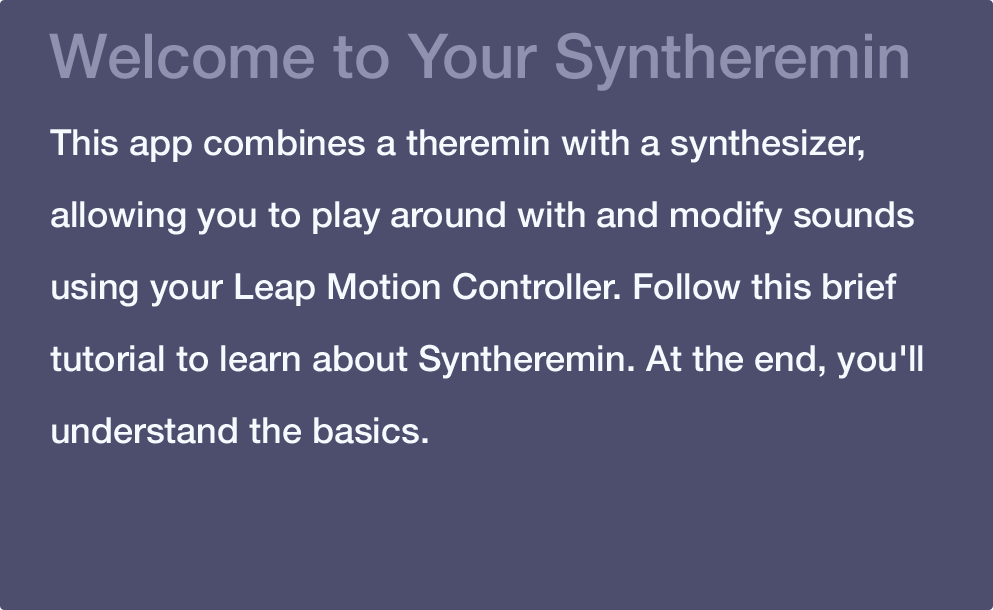
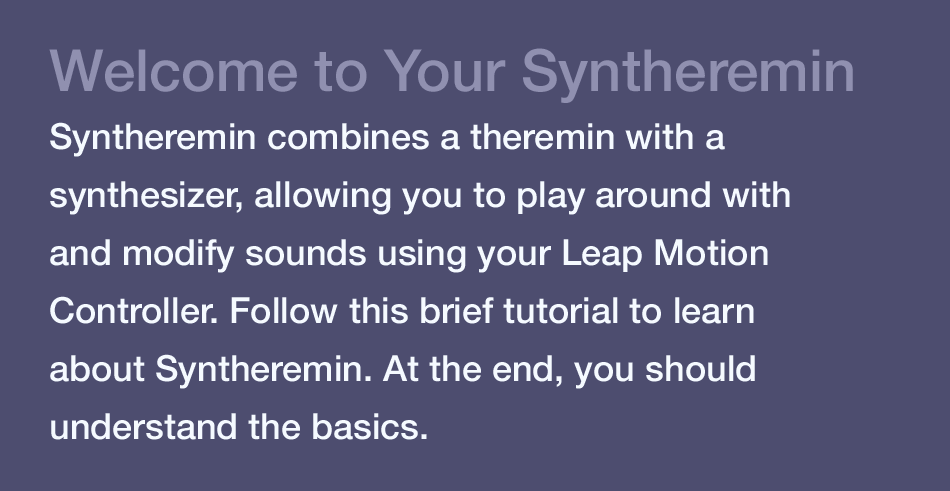
integrate new assets from joey (some half-res)

Changed region(s): [[0.0305, 0.0611, 0.9463, 0.7943], [0.0305, 0.8248, 0.4579, 0.9165]]

diff --git a/leapsynth/TutorialBox.m b/leapsynth/TutorialBox.m
@@ -110,21 +110,28 @@
     NSRect superBounds = [content frame];
     switch (++_tutorialStep) {
         case 1: //welcome
-            [self setFrameSize:NSMakeSize(496,305)];
+            [self setFrameSize:NSMakeSize(475,245)];
             [self setFrameOrigin:NSMakePoint(superBounds.size.width/2 - [self bounds].size.width/2,
                                              superBounds.size.height/2 - [self bounds].size.height/2)];
             
-            [_backgroundImage setFrame:NSMakeRect(0,0,496,305)];
+            [_backgroundImage setFrame:NSMakeRect(0,0,475,245)];
             [_backgroundImage setImage:[NSImage imageNamed:@"CARD1"]];
             break;
             
         case 2: //to begin, place hands above
+            [self setFrameSize:NSMakeSize(496,305)];
+            [self setFrameOrigin:NSMakePoint(superBounds.size.width/2 - [self bounds].size.width/2,
+                                             superBounds.size.height/2 - [self bounds].size.height/2)];
             [_backgroundImage setFrame:NSMakeRect(0,0,496,305)];
             [_backgroundImage setImage:[NSImage imageNamed:@"CARD2"]];
             break;
             
         case 3: // how to play
-            [_backgroundImage setFrame:NSMakeRect(0,0,496,305)];
+            [self setFrameSize:NSMakeSize(475,292)];
+            [self setFrameOrigin:NSMakePoint(superBounds.size.width/2 - [self bounds].size.width/2,
+                                             superBounds.size.height/2 - [self bounds].size.height/2)];
+
+            [_backgroundImage setFrame:NSMakeRect(0,0,475,292)];
             [_backgroundImage setImage:[NSImage imageNamed:@"CARD3"]];
             break;
             
@@ -135,11 +142,11 @@
             break;
 
         case 5: //patches
-            [self setFrameSize:NSMakeSize(496,305)];
+            [self setFrameSize:NSMakeSize(475,219)];
             [self setFrameOrigin:NSMakePoint(superBounds.size.width/2 - [self bounds].size.width/2,
                                              superBounds.size.height/2 - [self bounds].size.height/2)];
 
-            [_backgroundImage setFrame:NSMakeRect(0,0,496,305)];
+            [_backgroundImage setFrame:NSMakeRect(0,0,475,219)];
             [_backgroundImage setImage:[NSImage imageNamed:@"CARD4"]];
             
             if (_delegate && [_delegate respondsToSelector:@selector(switchToSynth:)]) {
@@ -148,26 +155,26 @@
             break;
             
         case 6: //lfo
-            [self setFrame:NSMakeRect(60,550,355,130)];
-            [_backgroundImage setFrame:NSMakeRect(0,0,355,130)];
+            [self setFrame:NSMakeRect(60,550,425,169)];
+            [_backgroundImage setFrame:NSMakeRect(0,0,425,169)];
             [_backgroundImage setImage:[NSImage imageNamed:@"CARD5"]];
             break;
             
         case 7: //osc
-            [self setFrame:NSMakeRect(70,435,355,120)];
-            [_backgroundImage setFrame:NSMakeRect(0,0,355,120)];
+            [self setFrame:NSMakeRect(75,440,425,138)];
+            [_backgroundImage setFrame:NSMakeRect(0,0,425,138)];
             [_backgroundImage setImage:[NSImage imageNamed:@"CARD6"]];
             break;
             
         case 8: // noise
-            [self setFrame:NSMakeRect(550,540,355,120)];
-            [_backgroundImage setFrame:NSMakeRect(0,0,355,120)];
+            [self setFrame:NSMakeRect(250,550,425,143)];
+            [_backgroundImage setFrame:NSMakeRect(0,0,425,143)];
             [_backgroundImage setImage:[NSImage imageNamed:@"CARD7"]];
             break;
             
         case 9: // adsr
-            [self setFrame:NSMakeRect(550,320,355,190)];
-            [_backgroundImage setFrame:NSMakeRect(0,0,355,190)];
+            [self setFrame:NSMakeRect(250,330,425,170)];
+            [_backgroundImage setFrame:NSMakeRect(0,0,425,170)];
             [_backgroundImage setImage:[NSImage imageNamed:@"CARD8"]];
             break;
 
@@ -176,17 +183,17 @@
                 [_delegate switchToTheremin:self];
             }
 
-            [self setFrame:NSMakeRect(120,60,355,110)];
-            [_backgroundImage setFrame:NSMakeRect(0,0,355,110)];
+            [self setFrame:NSMakeRect(120,60,425,120)];
+            [_backgroundImage setFrame:NSMakeRect(0,0,425,120)];
             [_backgroundImage setImage:[NSImage imageNamed:@"CARD9"]];
             break;
             
         case 11:
-            [self setFrameSize:NSMakeSize(355,112)];
+            [self setFrameSize:NSMakeSize(475,186)];
             [self setFrameOrigin:NSMakePoint(superBounds.size.width/2 - [self bounds].size.width/2,
                                              superBounds.size.height/2 - [self bounds].size.height/2)];
             
-            [_backgroundImage setFrame:NSMakeRect(0,0,355,112)];
+            [_backgroundImage setFrame:NSMakeRect(0,0,475,186)];
             [_backgroundImage setImage:[NSImage imageNamed:@"CARD10"]];
             break;
 
